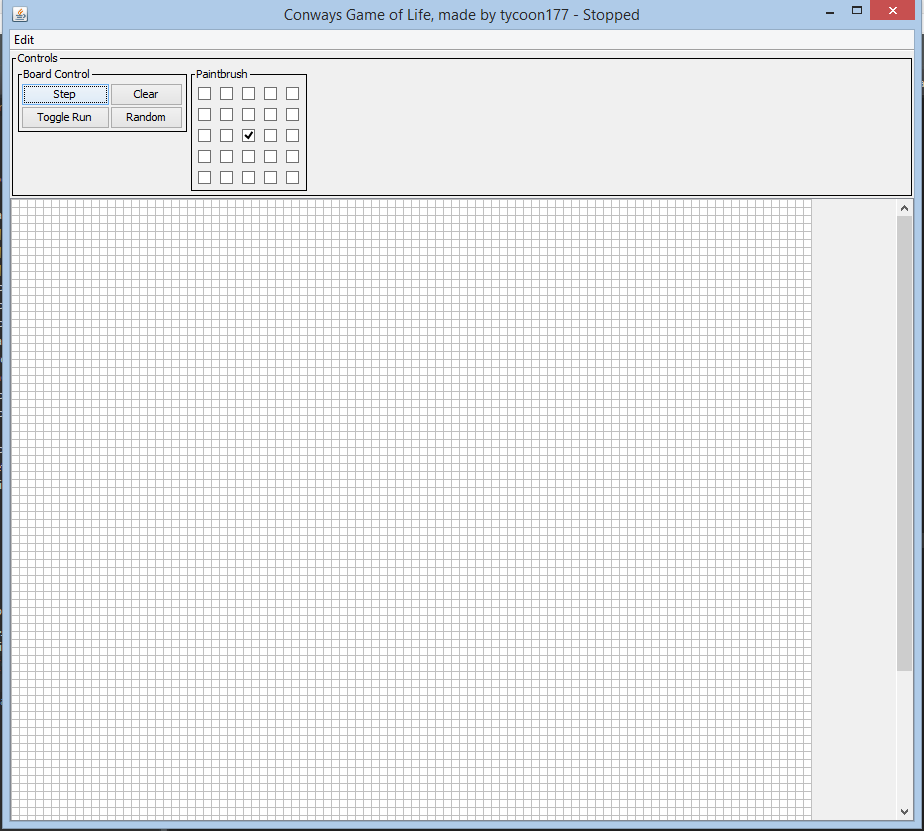
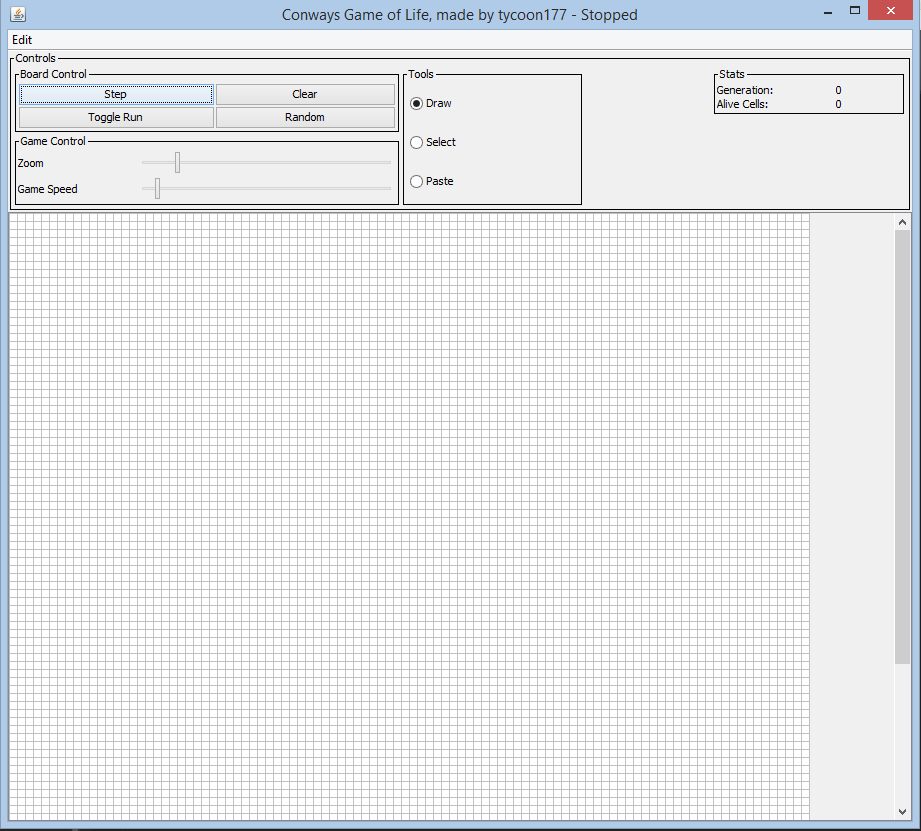
Added previews for the paste that you are about to place. Also took the Change cell size out of the menu as it has the slider

diff --git a/src/com/tycoon177/conway/Listeners/ConwaysBoardMouseListeners.java b/src/com/tycoon177/conway/Listeners/ConwaysBoardMouseListeners.java
@@ -2,17 +2,15 @@ package com.tycoon177.conway.listeners;
 
 import java.awt.Point;
 import java.awt.Rectangle;
+import java.awt.event.MouseAdapter;
 import java.awt.event.MouseEvent;
-import java.awt.event.MouseListener;
-import java.awt.event.MouseMotionListener;
 
 import com.tycoon177.conway.GUI.ConwayGUI;
 import com.tycoon177.conway.GUI.controlpanels.Controls;
 import com.tycoon177.conway.GUI.controlpanels.PaintBrushEditor;
 import com.tycoon177.conway.utils.Settings;
 
-public class ConwaysBoardMouseListeners implements MouseListener,
-		MouseMotionListener {
+public class ConwaysBoardMouseListeners extends MouseAdapter {
 	private boolean leftClick = false, inside = false;
 	private int halfPt = ((PaintBrushEditor.SIZE - 1) / 2), i, j;
 	private int[][] paintbrush;
@@ -35,13 +33,43 @@ public class ConwaysBoardMouseListeners implements MouseListener,
 				ConwayGUI.game.drawSelectionRect(r);
 			}
 		ConwayGUI.gui.repaint();
+		e.consume();
 	}
 
 	@Override
 	public void mouseMoved(MouseEvent e) {
-		if (inside) {
+		if (inside)
 			point = getPointOnScreen(e);
+		cell = getCell(e.getPoint());
+		if (Controls.tools.getTool().equals("paste")) {
+			if (stamp == null)
+				return;
+			int halfw = 0, halfh = 0;
+			// System.out.println(stamp.length + " " + stamp[0].length);
+			// if (stamp.length > 1 && stamp[0].length > 1) {
+			// if (stamp.length > 1)
+			halfh = stamp.length % 2 == 0 ? stamp.length - stamp.length / 2
+					: stamp.length - (stamp.length + 1) / 2;
+
+			// if (stamp[0].length > 1)
+			halfw = stamp[0].length % 2 == 0 ? stamp[0].length
+					- stamp[0].length / 2 : stamp[0].length
+					- (stamp[0].length + 1) / 2;
+			// }
+			// System.out.println(halfw + " " + halfh);
+			ConwayGUI.game.resetBoard();
+			for (int y = 0; y < stamp.length; y++) {
+				for (int x = 0; x < stamp[0].length; x++) {
+					int x1 = (int) (cell.getX() + x - halfw);
+					int y1 = (int) (cell.getY() + y - halfh);
+					if (stamp[y][x] == 1) {
+						setTempStamp(x1, y1);
+					}
+				}
+			}
 		}
+		ConwayGUI.game.repaint();
+		e.consume();
 	}
 
 	@Override
@@ -126,6 +154,13 @@ public class ConwaysBoardMouseListeners implements MouseListener,
 			}
 	}
 
+	private void setTempStamp(int x, int y) {
+		if (x >= 0 && x < ConwayGUI.game.board.length)
+			if (y >= 0 && y < ConwayGUI.game.board[0].length) {
+				ConwayGUI.game.board[x][y] += 2;
+			}
+	}
+
 	private void changeCell(int val) {
 		String tool = Controls.tools.getTool();
 		if (tool.equals("draw")) {
@@ -145,21 +180,17 @@ public class ConwaysBoardMouseListeners implements MouseListener,
 			if (stamp == null)
 				return;
 			int halfw = 0, halfh = 0;
-			//System.out.println(stamp.length + " " + stamp[0].length);
-			if (stamp.length > 1 && stamp[0].length > 1) {
-				if (stamp.length > 1)
-					halfw = stamp.length % 2 == 0 ? stamp.length / 2
-							: (stamp.length + 1) / 2;
-
-				if (stamp[0].length > 1)
-					halfh = stamp[0].length % 2 == 0 ? stamp[0].length / 2
-							: (stamp[0].length + 1) / 2;
-			}
-			//System.out.println(halfw + " " + halfh);
+			halfh = stamp.length % 2 == 0 ? stamp.length - stamp.length / 2
+					: stamp.length - (stamp.length + 1) / 2;
+			halfw = stamp[0].length % 2 == 0 ? stamp[0].length
+					- stamp[0].length / 2 : stamp[0].length
+					- (stamp[0].length + 1) / 2;
+			System.out.println(halfw + " " + halfh);
+			System.out.println(stamp.length + " " + stamp[0].length);
 			for (int y = 0; y < stamp.length; y++) {
+				int y1 = (int) (cell.getY() + y - halfh);
 				for (int x = 0; x < stamp[0].length; x++) {
 					int x1 = (int) (cell.getX() + x - halfw);
-					int y1 = (int) (cell.getY() + y - halfh);
 					if (stamp[y][x] == 1) {
 						addCell(x1, y1);
 					}

diff --git a/src/com/tycoon177/conway/utils/ConwaysGame.java b/src/com/tycoon177/conway/utils/ConwaysGame.java
@@ -8,6 +8,8 @@ import java.awt.Graphics2D;
 import java.awt.Point;
 import java.awt.Rectangle;
 import java.awt.Stroke;
+import java.awt.event.FocusEvent;
+import java.awt.event.FocusListener;
 import java.util.ArrayList;
 import java.util.Random;
 
@@ -65,11 +67,25 @@ public class ConwaysGame extends JPanel {
 
 	public void init() {
 		ConwaysBoardMouseListeners listen = new ConwaysBoardMouseListeners();
-		this.addMouseListener(listen);
 		this.addMouseMotionListener(listen);
+		this.addMouseListener(listen);
 		this.setDoubleBuffered(true);
+		this.setFocusable(true);
 		visited = new int[board.length][board[0].length];
 		// this.setBorder(new LineBorder(Color.BLACK));
+		this.addFocusListener(new FocusListener(){
+
+			@Override
+			public void focusGained(FocusEvent arg0) {
+				
+			}
+
+			@Override
+			public void focusLost(FocusEvent arg0) {
+				requestFocus();
+			}
+			
+		});
 	}
 
 	public void randomizeBoard() {
@@ -171,11 +187,24 @@ public class ConwaysGame extends JPanel {
 	public void paintComponent(Graphics g) {
 		super.paintComponent(g);
 		Graphics2D g2 = (Graphics2D) g;
+		paintBackground(g2);
+		Stroke stroke = g2.getStroke();
+		paintGrid(g2);
+		g2.setStroke(stroke);
+		paintCells(g2);
+		if (selectionRect != null) {
+			g2.draw(selectionRect);
+		}
+	}
+
+	private void paintBackground(Graphics2D g2) {
 		g2.setColor(Settings.BACKGROUND_COLOR);
 		g2.fillRect(0, 0, this.getPreferredSize().width,
 				this.getPreferredSize().height);
+	}
+
+	private void paintGrid(Graphics2D g2) {
 		g2.setColor(Settings.GRID_COLOR);
-		Stroke stroke = g2.getStroke();
 		g2.setStroke(new BasicStroke());
 		if (showGrid) {
 			g2.drawRect(0, 0, board.length * Settings.CELL_SIZE,
@@ -187,7 +216,9 @@ public class ConwaysGame extends JPanel {
 				g2.drawRect(0, i, board.length * Settings.CELL_SIZE, 0);
 
 		}
-		g2.setStroke(stroke);
+	}
+
+	private void paintCells(Graphics2D g2) {
 		g2.setColor(Settings.CELL_COLOR);
 		for (int i = 0; i < board.length; i++) {
 			for (int j = 0; j < board[0].length; j++) {
@@ -198,6 +229,8 @@ public class ConwaysGame extends JPanel {
 						g2.setColor(Color.BLUE);
 				}
 				if (board[i][j] > 0) {
+					if (board[i][j] > 1)
+						g2.setColor(Color.LIGHT_GRAY);
 					g2.fillRect(Settings.CELL_SIZE * i, Settings.CELL_SIZE * j,
 							Settings.CELL_SIZE, Settings.CELL_SIZE);
 				} else {
@@ -210,10 +243,6 @@ public class ConwaysGame extends JPanel {
 				g2.setColor(Settings.CELL_COLOR);
 			}
 		}
-		if (selectionRect != null) {
-			g2.draw(selectionRect);
-		}
-
 	}
 
 	public void clearBoard() {
@@ -319,4 +348,15 @@ public class ConwaysGame extends JPanel {
 	public void stopDrawingSelection() {
 		selectionRect = null;
 	}
+
+	public void resetBoard() {
+		for (int i = 0; i < board.length; i++) {
+			for (int j = 0; j < board[0].length; j++) {
+				if (board[i][j] > 1)
+					board[i][j] -= 2;
+			}
+		}
+	}
+	
+	
 }

diff --git a/src/com/tycoon177/conway/GUI/ConwayMenuBar.java b/src/com/tycoon177/conway/GUI/ConwayMenuBar.java
@@ -22,10 +22,6 @@ public class ConwayMenuBar extends JMenuBar {
 		changeSize.setActionCommand("ChangeSize");
 		changeSize.addActionListener(actionListener);
 		edit.add(changeSize);
-		JMenuItem changeCellSize = new JMenuItem("Change Cell Size");
-		changeCellSize.setActionCommand("ChangeCellSize");
-		changeCellSize.addActionListener(actionListener);
-		edit.add(changeCellSize);
 		JMenuItem preferences = new JMenuItem("Preferences");
 		preferences.setActionCommand("pref");
 		preferences.addActionListener(actionListener);

diff --git a/src/com/tycoon177/conway/GUI/controlpanels/Controls.java b/src/com/tycoon177/conway/GUI/controlpanels/Controls.java
@@ -35,7 +35,7 @@ public class Controls extends JPanel {
 		JPanel boardControls = new BoardControls();
 		GridBagConstraints c = new GridBagConstraints();
 		setOpaque(true);
-		//PaintBrushEditor p = new PaintBrushEditor();
+		new PaintBrushEditor();
 		c.anchor = GridBagConstraints.NORTHWEST;
 //		c.fill = GridBagConstraints.HORIZONTAL;
 		c.fill = GridBagConstraints.BOTH;

diff --git a/README.md b/README.md
@@ -9,7 +9,7 @@ It also offers buttons to clear the board and add random cells.
 
 The rule changer is the most helpful asset of this implementation of the Game of Life at this point in time. You are able to specify the number of neighbors that will keep a cell alive or the number of neighbors that will bring it to life. 
 
-More features are planned for the near future such as custom colors based on the number of neighbors, the ability to save different rulesets, and possibly a brush editor. 
+More features are planned for the near future such as custom colors based on the number of neighbors, the ability to save different rulesets. 
 
 ![Blank Board](https://github.com/tycoon177/Conway-s-Game-of-Life/blob/master/blank.PNG)
 ![Random Board](https://github.com/tycoon177/Conway-s-Game-of-Life/blob/master/random1000x1000.PNG)
